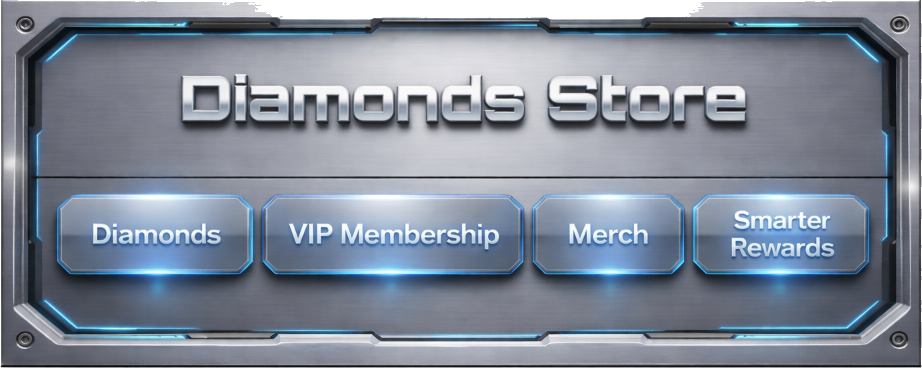
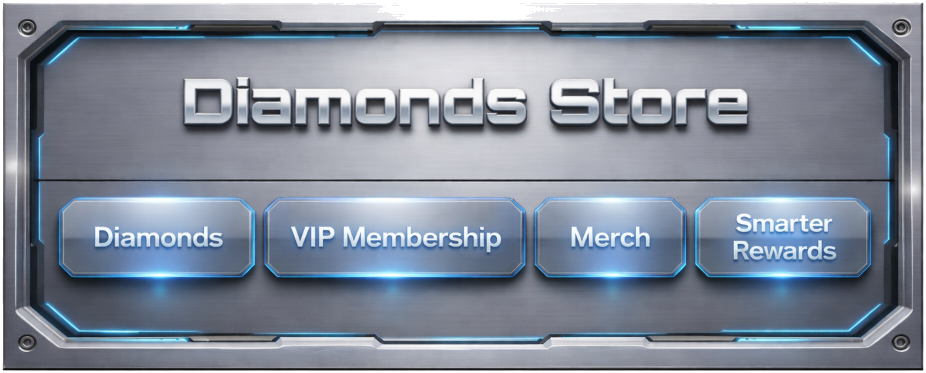
fix: redo header background removal with conservative tolerance — preserves frame edges without distortion

Changed region(s): [[0.0, 0.0, 1.0, 1.0], [0.1822, 0.1793, 0.82, 0.3587], [0.6074, 0.6277, 0.6985, 0.6576]]

diff --git a/pages/hub/diamond-store.js b/pages/hub/diamond-store.js
@@ -884,22 +884,22 @@ export default function DiamondStorePage() {
                         {/* Diamonds tab */}
                         <div
                             onClick={() => setActiveTab('diamonds')}
-                            style={{ position: 'absolute', left: '3%', top: '60%', width: '18%', height: '35%', cursor: 'pointer' }}
+                            style={{ position: 'absolute', left: '3%', top: '62%', width: '18%', height: '34%', cursor: 'pointer' }}
                         />
                         {/* VIP Membership tab */}
                         <div
                             onClick={() => setActiveTab('vip')}
-                            style={{ position: 'absolute', left: '24%', top: '60%', width: '26%', height: '35%', cursor: 'pointer' }}
+                            style={{ position: 'absolute', left: '24%', top: '62%', width: '26%', height: '34%', cursor: 'pointer' }}
                         />
                         {/* Merch tab */}
                         <div
                             onClick={() => setActiveTab('merch')}
-                            style={{ position: 'absolute', left: '53%', top: '60%', width: '19%', height: '35%', cursor: 'pointer' }}
+                            style={{ position: 'absolute', left: '53%', top: '62%', width: '19%', height: '34%', cursor: 'pointer' }}
                         />
                         {/* Smarter Rewards tab */}
                         <div
                             onClick={() => setActiveTab('rewards')}
-                            style={{ position: 'absolute', left: '75%', top: '60%', width: '22%', height: '35%', cursor: 'pointer' }}
+                            style={{ position: 'absolute', left: '75%', top: '62%', width: '23%', height: '34%', cursor: 'pointer' }}
                         />
                     </div>
 
